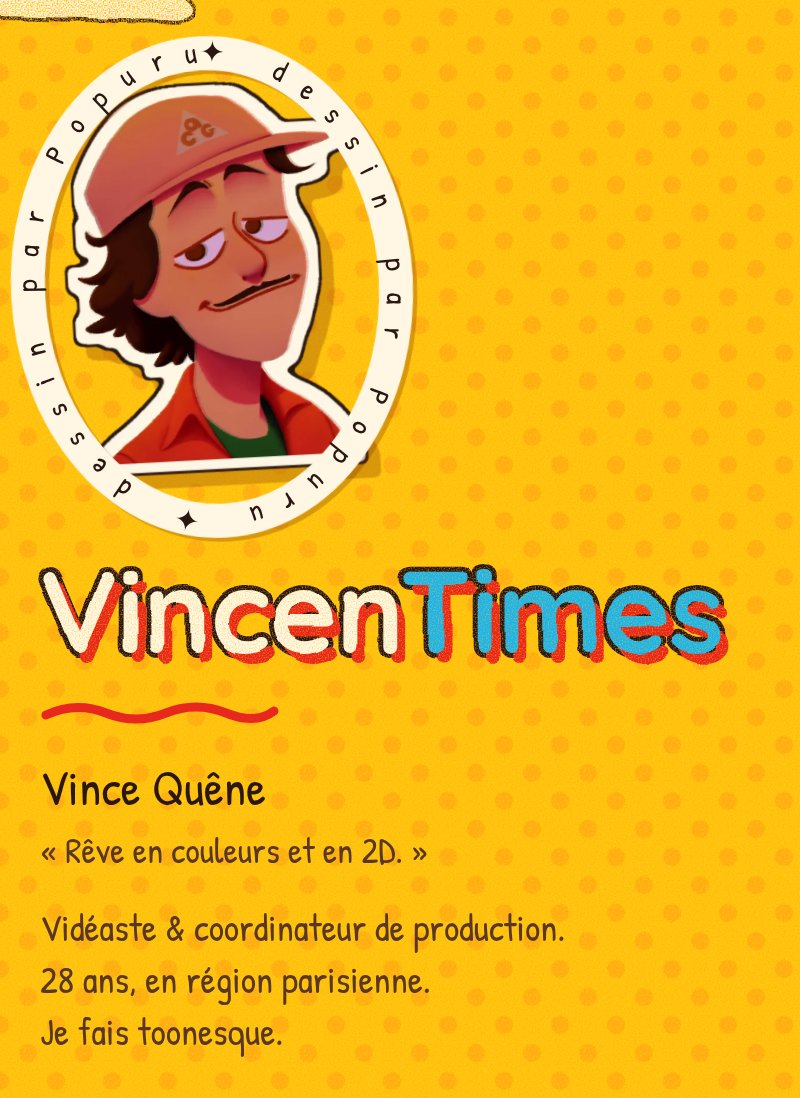
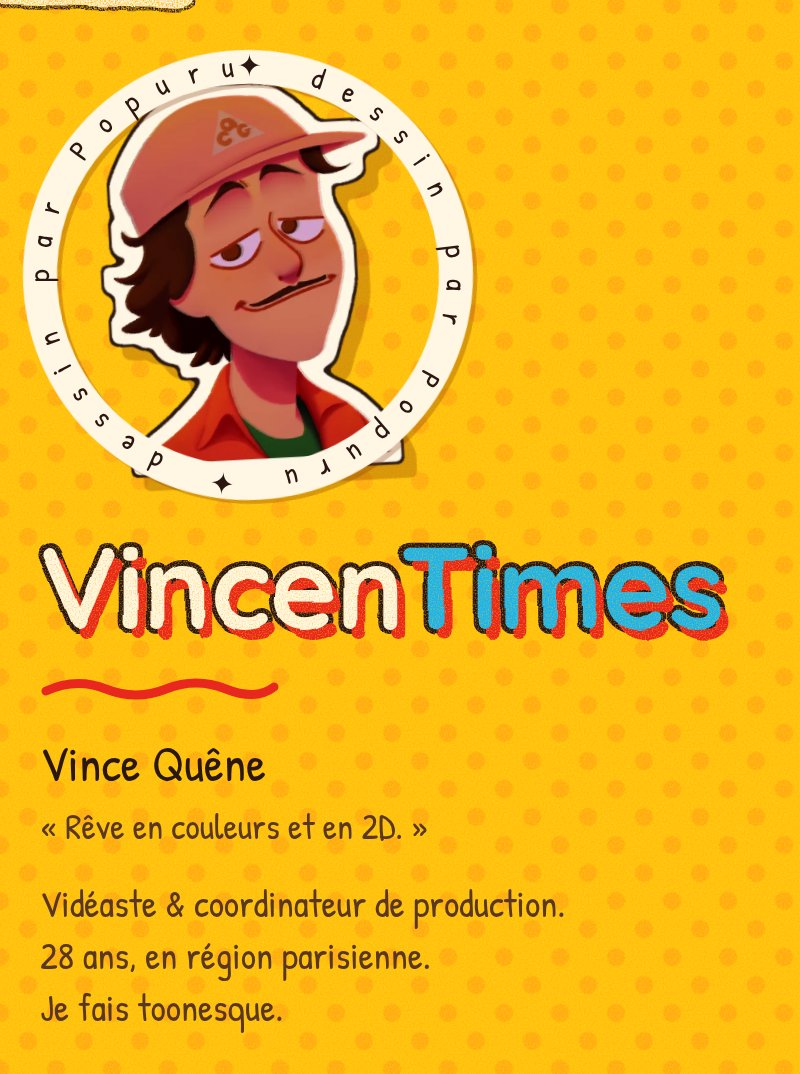
Crédit Popuru : ruban en cercle parfait
Claude-Session: https://claude.ai/code/session_01LKzVBaJrLPfnWSfihrEFNx

Changed region(s): [[0.0, 0.0, 0.9375, 0.7989], [0.0312, 0.8296, 0.7188, 0.9525]]

diff --git a/index.html b/index.html
@@ -129,11 +129,11 @@
             <img src="/assets/img/avatar-sticker.png" width="148" height="196" alt="Vince Quêne dessiné par Popuru : casquette, cheveux bruns, sourire en coin">
           </picture>
           <!-- Crédit en étiquette qui fait le tour de l'autocollant -->
-          <svg class="avatar-ring" viewBox="0 0 200 248">
-            <defs><path id="ring" d="M100 7 A92 117 0 1 1 100 241 A92 117 0 1 1 100 7"/></defs>
-            <ellipse class="ring-tape" cx="100" cy="124" rx="92" ry="117"/>
+          <svg class="avatar-ring" viewBox="0 0 236 236">
+            <defs><path id="ring" d="M118 14 A104 104 0 1 1 118 222 A104 104 0 1 1 118 14"/></defs>
+            <circle class="ring-tape" cx="118" cy="118" r="104"/>
             <a href="https://popuru.carrd.co/" target="_blank" rel="noopener" aria-label="Avatar dessiné par Popuru">
-              <text dy="4.6"><textPath href="#ring" textLength="657" lengthAdjust="spacing">✦ dessin par Popuru ✦ dessin par Popuru </textPath></text>
+              <text dy="4.6"><textPath href="#ring" textLength="651" lengthAdjust="spacing">✦ dessin par Popuru ✦ dessin par Popuru </textPath></text>
             </a>
           </svg>
         </figure>

diff --git a/assets/style.css b/assets/style.css
@@ -298,13 +298,13 @@ a.sketch:active { transform: scale(0.97); }
    qui en fait le tour comme une étiquette */
 .avatar {
   position: relative;
-  width: 200px;
-  height: 248px;
+  width: 236px;
+  height: 236px;
   margin: 0 auto 0.4rem;
 }
 .avatar img {
   position: absolute;
-  left: 26px;
+  left: 44px;
   top: 21px;
   width: 148px;
   height: 196px;
